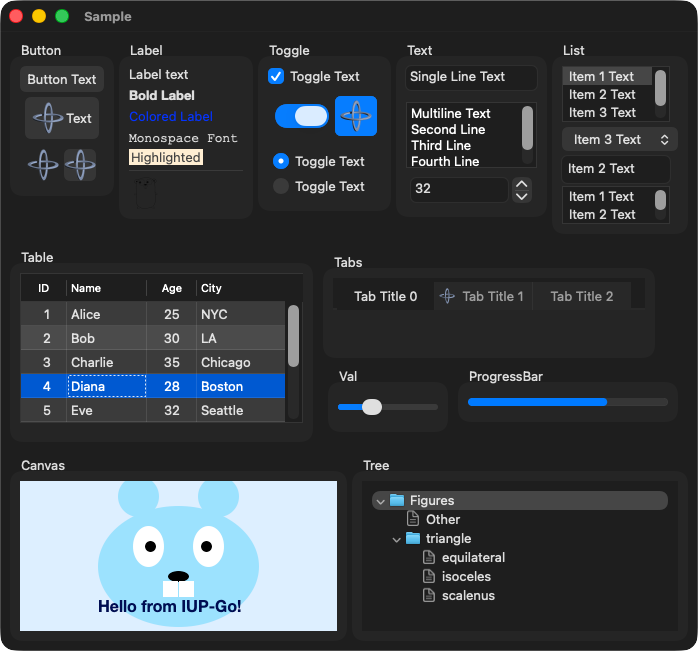
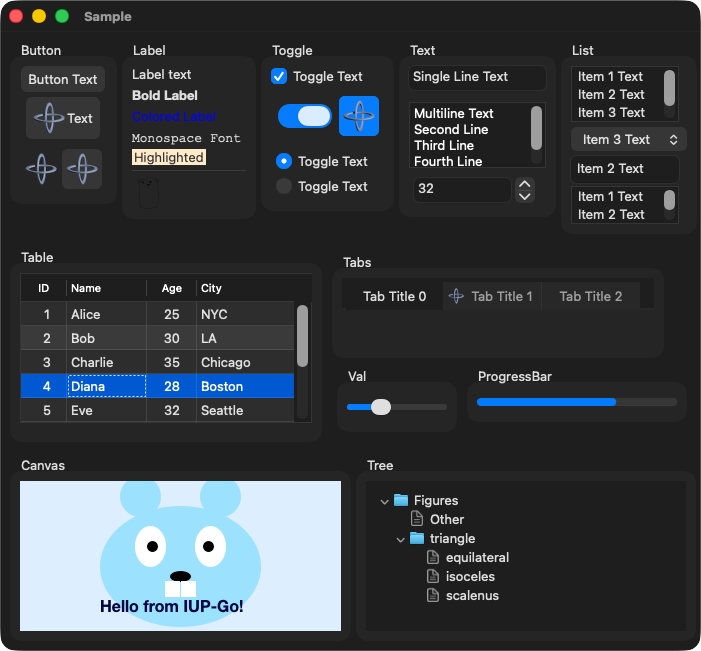
cocoa: Fix image-only Button/Toggle measurement, remove dead code

diff --git a/iup/external/src/cocoa/iupcocoa_button.m b/iup/external/src/cocoa/iupcocoa_button.m
@@ -24,81 +24,12 @@
 
 static const void* IUP_COCOA_BUTTON_RECEIVER_OBJ_KEY = @"IUP_COCOA_BUTTON_RECEIVER_OBJ_KEY";
 
-@interface IupCocoaButtonCell : NSButtonCell
-{
-  CGFloat _horizPadding;
-  CGFloat _vertPadding;
-  BOOL _hasUserPadding;
-}
-- (void)setIupPaddingHoriz:(CGFloat)horiz vert:(CGFloat)vert;
-@end
-
-@implementation IupCocoaButtonCell
-
-- (instancetype)initTextCell:(NSString *)string
-{
-  self = [super initTextCell:string];
-  if (self)
-  {
-    _horizPadding = 0;
-    _vertPadding = 0;
-    _hasUserPadding = NO;
-  }
-  return self;
-}
-
-- (instancetype)initWithCoder:(NSCoder *)coder
-{
-  self = [super initWithCoder:coder];
-  if (self)
-  {
-    _horizPadding = 0;
-    _vertPadding = 0;
-    _hasUserPadding = NO;
-  }
-  return self;
-}
-
-- (void)setIupPaddingHoriz:(CGFloat)horiz vert:(CGFloat)vert
-{
-  _horizPadding = horiz;
-  _vertPadding = vert;
-  _hasUserPadding = YES;
-}
-
-- (NSRect)drawingRectForBounds:(NSRect)rect
-{
-  if (!_hasUserPadding)
-    return [super drawingRectForBounds:rect];
-
-  NSRect drawingRect = [super drawingRectForBounds:rect];
-
-  CGFloat currentInsetX = drawingRect.origin.x - rect.origin.x;
-  CGFloat adjustmentX = _horizPadding - currentInsetX;
-  drawingRect.origin.x += adjustmentX;
-  drawingRect.size.width -= (2.0 * adjustmentX);
-
-  CGFloat currentInsetY = drawingRect.origin.y - rect.origin.y;
-  CGFloat adjustmentY = _vertPadding - currentInsetY;
-  drawingRect.origin.y += adjustmentY;
-  drawingRect.size.height -= (2.0 * adjustmentY);
-
-  return drawingRect;
-}
-
-@end
-
 @interface IupCocoaFlatButton : NSButton
 @property (nonatomic, assign) BOOL isFlat;
 @property (nonatomic, assign) BOOL isHovering;
 @end
 
 @implementation IupCocoaFlatButton
-
-+ (Class)cellClass
-{
-  return [IupCocoaButtonCell class];
-}
 
 - (void)updateTrackingAreas
 {
@@ -442,7 +373,7 @@ static void cocoaButtonMeasureBorders(Ihandle* ih, int has_image, int has_text, 
   *border_x = (int)lroundf(fitting_size.width - intrinsic_size.width);
   *border_y = (int)lroundf(fitting_size.height - intrinsic_size.height);
 
-  /* When intrinsic == fitting, calculate border using known content size */
+  /* Fallback: image-only horizontal is inflated by NSButton min-width, use vertical for both axes */
   if (*border_x == 0 && *border_y == 0)
   {
     if (has_image && has_text)
@@ -456,7 +387,14 @@ static void cocoaButtonMeasureBorders(Ihandle* ih, int has_image, int has_text, 
       *border_x = (int)lroundf(fitting_size.width) - content_w;
       *border_y = (int)lroundf(fitting_size.height) - content_h;
     }
-    else if (!has_image)
+    else if (has_image)
+    {
+      int chrome = (int)lroundf(fitting_size.height) - 16;
+      if (chrome < 0) chrome = 0;
+      *border_x = chrome;
+      *border_y = chrome;
+    }
+    else
     {
       int iup_text_w = iupdrvFontGetStringWidth(ih, "WWWWWWWWWW");
       int iup_text_h;
@@ -669,18 +607,7 @@ static int cocoaButtonSetPaddingAttrib(Ihandle* ih, const char* value)
 
   iupStrToIntInt(value, &ih->data->horiz_padding, &ih->data->vert_padding, 'x');
 
-  if (ih->handle)
-  {
-    NSButton* the_button = ih->handle;
-    IupCocoaButtonCell* cell = (IupCocoaButtonCell*)[the_button cell];
-    if (ih->data->horiz_padding > 0 || ih->data->vert_padding > 0)
-      [cell setIupPaddingHoriz:ih->data->horiz_padding vert:ih->data->vert_padding];
-
-    [the_button setNeedsDisplay:YES];
-    return 0;
-  }
-
-  return 1;
+  return 0;
 }
 
 static int cocoaButtonSetBgColorAttrib(Ihandle* ih, const char* value)
@@ -927,12 +854,6 @@ static int cocoaButtonMapMethod(Ihandle* ih)
 
   [the_button setFont:[NSFont systemFontOfSize:0]];
   [[the_button cell] setLineBreakMode:NSLineBreakByClipping];
-
-  if (ih->data->horiz_padding != 0 || ih->data->vert_padding != 0)
-  {
-    IupCocoaButtonCell* cell = (IupCocoaButtonCell*)[the_button cell];
-    [cell setIupPaddingHoriz:ih->data->horiz_padding vert:ih->data->vert_padding];
-  }
 
   ih->handle = the_button;
   iupcocoaSetAssociatedViews(ih, the_button, the_button);

diff --git a/iup/external/src/cocoa/iupcocoa_toggle.m b/iup/external/src/cocoa/iupcocoa_toggle.m
@@ -133,37 +133,6 @@ static void cocoaToggleCycle3State(Ihandle* ih, NSButton* button)
 @end
 
 
-static void cocoaToggleUpdateImageSize(Ihandle* ih)
-{
-  if (ih->data->type == IUP_TOGGLE_IMAGE)
-  {
-    NSButton* the_toggle = ih->handle;
-    NSImage* image = [the_toggle image];
-
-    if (image)
-    {
-      NSSize imageSize = [image size];
-
-      int width = (int)imageSize.width;
-      int height = (int)imageSize.height;
-
-      width += 2 * ih->data->horiz_padding;
-      height += 2 * ih->data->vert_padding;
-
-      if (!ih->data->flat)
-      {
-        width += 8;
-        height += 8;
-      }
-
-      NSRect frame = [the_toggle frame];
-      frame.size.width = width;
-      frame.size.height = height;
-      [the_toggle setFrame:frame];
-    }
-  }
-}
-
 static void cocoaToggleUpdateImage(Ihandle* ih, int active, int check)
 {
   if (ih->data->type == IUP_TOGGLE_IMAGE)
@@ -190,12 +159,14 @@ static void cocoaToggleUpdateImage(Ihandle* ih, int active, int check)
     {
       NSImage* the_bitmap = iupImageGetImage(name, ih, !active, NULL);
       [the_toggle setImage:the_bitmap];
-      cocoaToggleUpdateImageSize(ih);
     }
     else
     {
       [the_toggle setImage:nil];
     }
+
+    /* setState: on a PushOnPushOff button with no title silently resets imagePosition to NSImageOverlaps */
+    [[the_toggle cell] setImagePosition:NSImageOnly];
   }
 }
 
@@ -338,18 +309,7 @@ static void cocoaToggleDeselectRadio(Ihandle* radio, Ihandle* ih)
 IUP_SDK_API void iupdrvToggleAddBorders(Ihandle* ih, int *x, int *y)
 {
   if (ih->data->type == IUP_TOGGLE_IMAGE)
-  {
-    if (!ih->data->flat)
-    {
-      *x += 8;
-      *y += 8;
-    }
-    else
-    {
-      *x += 4;
-      *y += 4;
-    }
-  }
+    iupdrvButtonAddBorders(ih, x, y);
 }
 
 IUP_SDK_API void iupdrvToggleAddSwitch(Ihandle* ih, int *x, int *y, const char* str)
@@ -661,14 +621,7 @@ static int cocoaToggleSetPaddingAttrib(Ihandle* ih, const char* value)
 
   iupStrToIntInt(value, &ih->data->horiz_padding, &ih->data->vert_padding, 'x');
 
-  if (ih->data->type == IUP_TOGGLE_IMAGE)
-  {
-    NSButton* the_toggle = ih->handle;
-    [[the_toggle cell] setImageScaling:NSImageScaleProportionallyDown];
-    cocoaToggleUpdateImageSize(ih);
-  }
-
-  return 1;
+  return 0;
 }
 
 static int cocoaToggleSetFgColorAttrib(Ihandle* ih, const char* value)
@@ -718,7 +671,6 @@ static int cocoaToggleSetFlatAttrib(Ihandle* ih, const char* value)
       [the_toggle setBezelStyle:NSBezelStyleRegularSquare];
     }
 
-    cocoaToggleUpdateImageSize(ih);
     return 1;
   }
 
